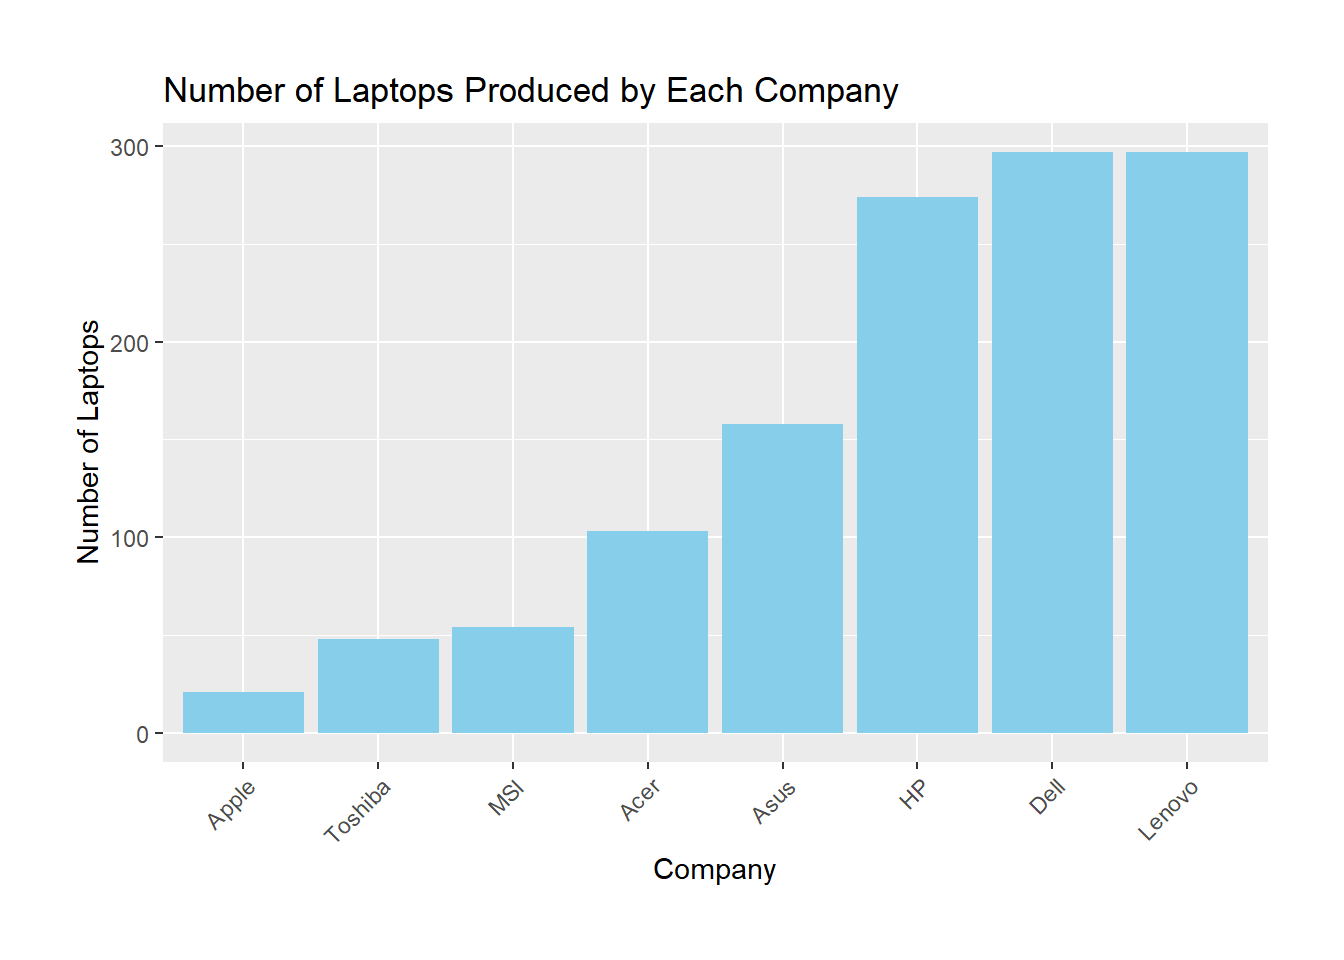
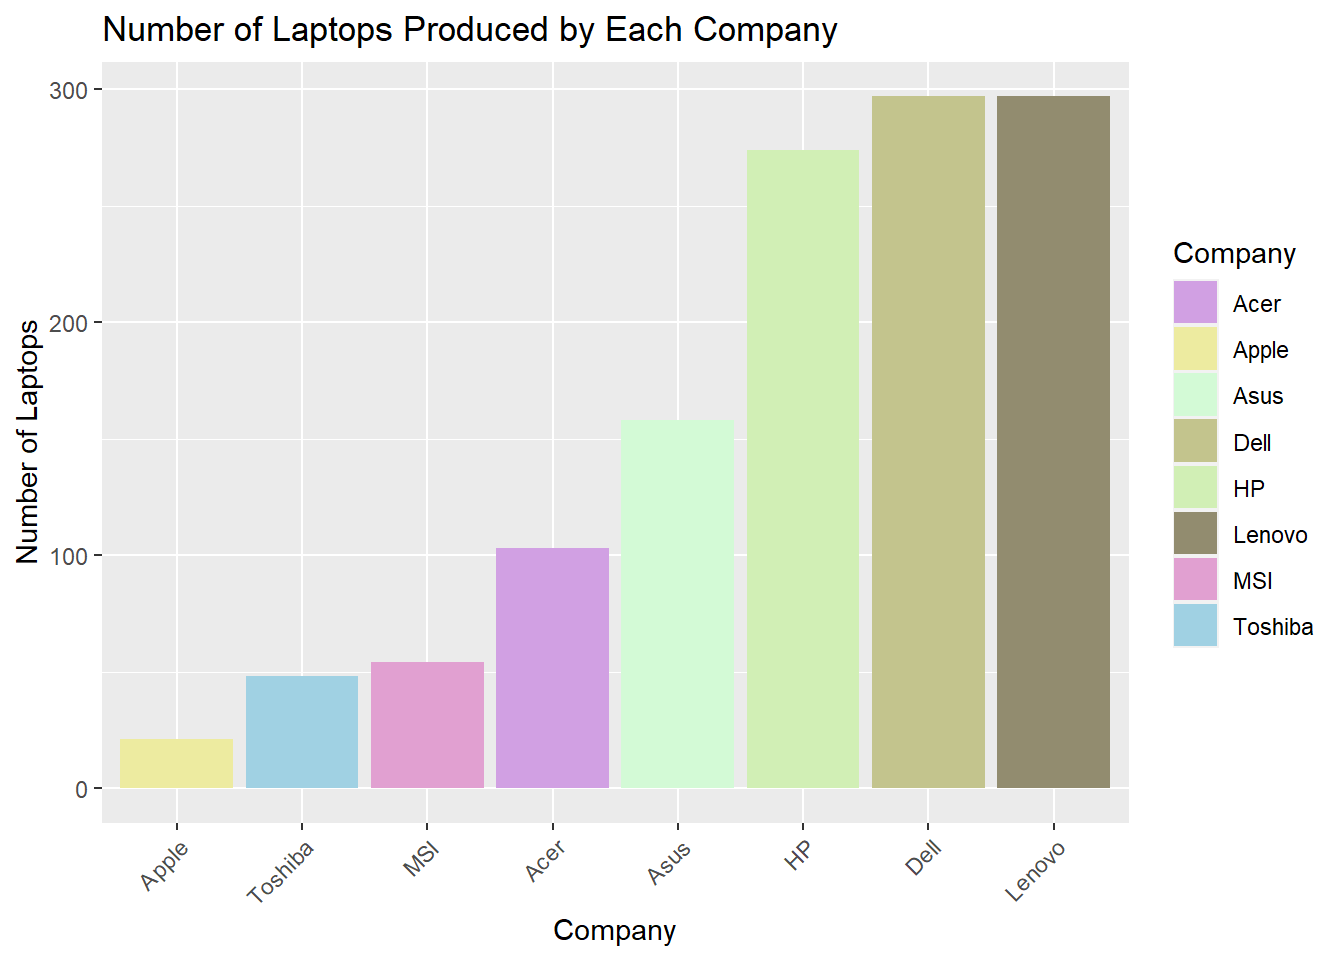
more colours

diff --git a/docs/index.html b/docs/index.html
@@ -236,11 +236,11 @@ $ Price            &lt;dbl&gt; 71378.68, 47895.52, 30636.00, 135195.34, 96095.81
 </div>
 </div>
 <div class="cell">
-<div class="sourceCode cell-code" id="cb4"><pre class="sourceCode r code-with-copy"><code class="sourceCode r"><span id="cb4-1"><a href="#cb4-1" aria-hidden="true" tabindex="-1"></a><span class="fu">ggplot</span>(brand_nos, <span class="fu">aes</span>(<span class="at">x =</span> <span class="fu">fct_reorder</span>(Company, n), <span class="at">y =</span> n)) <span class="sc">+</span></span>
+<div class="sourceCode cell-code" id="cb4"><pre class="sourceCode r code-with-copy"><code class="sourceCode r"><span id="cb4-1"><a href="#cb4-1" aria-hidden="true" tabindex="-1"></a><span class="fu">ggplot</span>(brand_nos, <span class="fu">aes</span>(<span class="at">x =</span> <span class="fu">fct_reorder</span>(Company, n), <span class="at">y =</span> n, <span class="at">fill =</span> Company)) <span class="sc">+</span></span>
 <span id="cb4-2"><a href="#cb4-2" aria-hidden="true" tabindex="-1"></a>  <span class="fu">labs</span>(<span class="at">x =</span> <span class="st">"Company"</span>, <span class="at">y =</span> <span class="st">"Number of Laptops"</span>, <span class="at">title =</span> <span class="st">"Number of Laptops Produced by Each Company"</span>) <span class="sc">+</span></span>
-<span id="cb4-3"><a href="#cb4-3" aria-hidden="true" tabindex="-1"></a>  <span class="fu">geom_bar</span>(<span class="at">stat =</span> <span class="st">"identity"</span>, <span class="at">fill =</span> <span class="st">"skyblue"</span>) <span class="sc">+</span></span>
-<span id="cb4-4"><a href="#cb4-4" aria-hidden="true" tabindex="-1"></a>  <span class="fu">theme</span>(<span class="at">axis.text.x =</span> <span class="fu">element_text</span>(<span class="at">angle =</span> <span class="dv">45</span>, <span class="at">hjust =</span> <span class="dv">1</span>),</span>
-<span id="cb4-5"><a href="#cb4-5" aria-hidden="true" tabindex="-1"></a>        <span class="at">plot.margin =</span> <span class="fu">margin</span>(<span class="dv">1</span>, <span class="dv">1</span>, <span class="dv">1</span>, <span class="dv">1</span>, <span class="st">"cm"</span>)) </span></code><button title="Copy to Clipboard" class="code-copy-button"><i class="bi"></i></button></pre></div>
+<span id="cb4-3"><a href="#cb4-3" aria-hidden="true" tabindex="-1"></a>  <span class="fu">geom_bar</span>(<span class="at">stat =</span> <span class="st">"identity"</span>) <span class="sc">+</span></span>
+<span id="cb4-4"><a href="#cb4-4" aria-hidden="true" tabindex="-1"></a>  <span class="fu">theme</span>(<span class="at">axis.text.x =</span> <span class="fu">element_text</span>(<span class="at">angle =</span> <span class="dv">45</span>, <span class="at">hjust =</span> <span class="dv">1</span>)) <span class="sc">+</span></span>
+<span id="cb4-5"><a href="#cb4-5" aria-hidden="true" tabindex="-1"></a>  <span class="fu">scale_fill_manual</span>(<span class="at">values =</span> brand_colors)</span></code><button title="Copy to Clipboard" class="code-copy-button"><i class="bi"></i></button></pre></div>
 <div class="cell-output-display">
 <p><img src="index_files/figure-html/unnamed-chunk-5-1.png" class="img-fluid" width="672"></p>
 </div>
